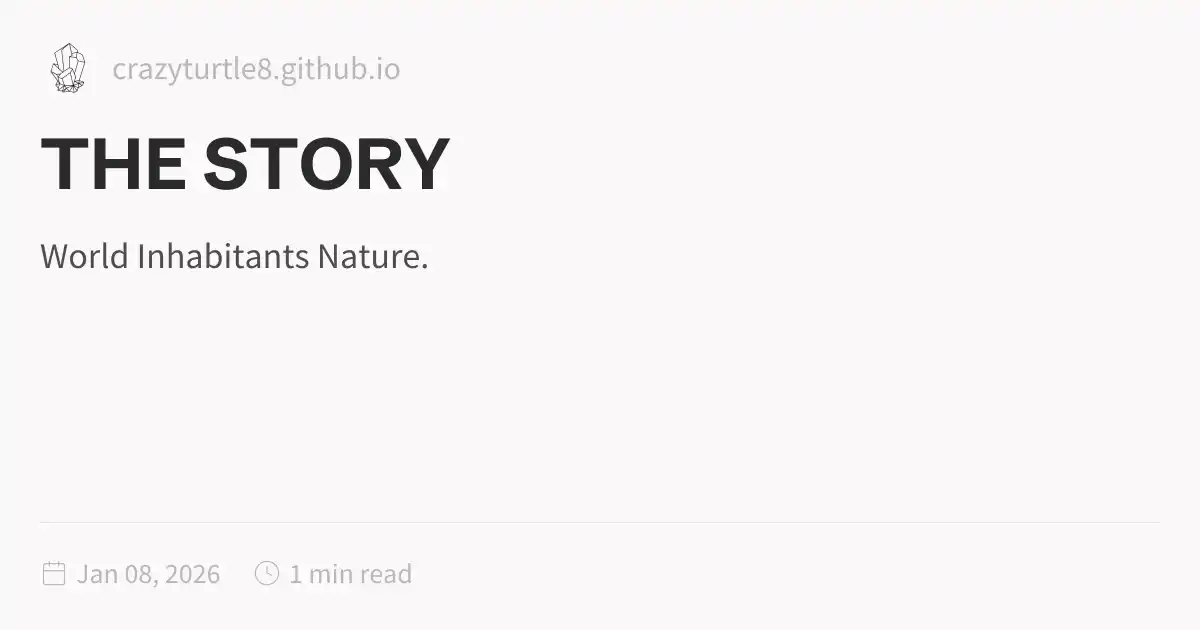
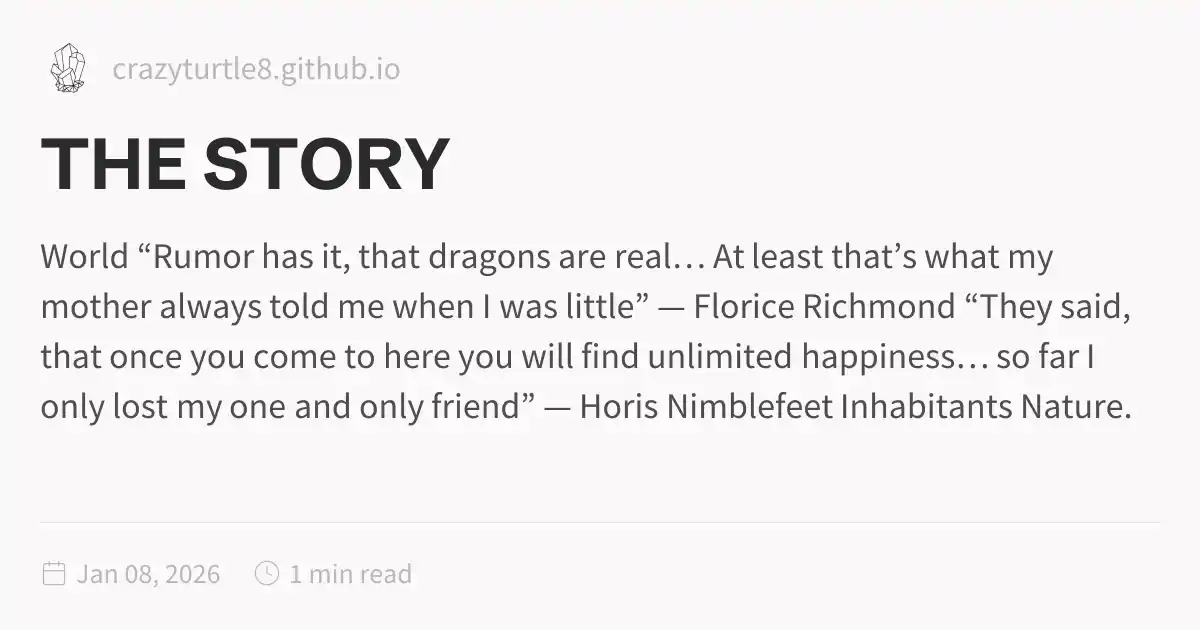
Update 2026-01-08

diff --git a/DnD/CAMPAIN/index.html b/DnD/CAMPAIN/index.html
@@ -115,6 +115,6 @@ pre:hover > .expand-button {
   padding: 0 12px;
   font-size: 14px;
 }
[2 lines of base64/hex data omitted]
 </script><script type="module" data-persist="true">function E(a,e){if(!a)return;function t(o){o.target===this&&(o.preventDefault(),o.stopPropagation(),e())}function n(o){o.key.startsWith("Esc")&&(o.preventDefault(),e())}a?.addEventListener("click",t),window.addCleanup(()=>a?.removeEventListener("click",t)),document.addEventListener("keydown",n),window.addCleanup(()=>document.removeEventListener("keydown",n))}function f(a){for(;a.firstChild;)a.removeChild(a.firstChild)}var m=class{constructor(e,t){this.container=e;this.content=t;this.setupEventListeners(),this.setupNavigationControls(),this.resetTransform()}isDragging=!1;startPan={x:0,y:0};currentPan={x:0,y:0};scale=1;MIN_SCALE=.5;MAX_SCALE=3;cleanups=[];setupEventListeners(){let e=this.onMouseDown.bind(this),t=this.onMouseMove.bind(this),n=this.onMouseUp.bind(this),o=this.onTouchStart.bind(this),r=this.onTouchMove.bind(this),i=this.onTouchEnd.bind(this),s=this.resetTransform.bind(this);this.container.addEventListener("mousedown",e),document.addEventListener("mousemove",t),document.addEventListener("mouseup",n),this.container.addEventListener("touchstart",o,{passive:!1}),document.addEventListener("touchmove",r,{passive:!1}),document.addEventListener("touchend",i),window.addEventListener("resize",s),this.cleanups.push(()=>this.container.removeEventListener("mousedown",e),()=>document.removeEventListener("mousemove",t),()=>document.removeEventListener("mouseup",n),()=>this.container.removeEventListener("touchstart",o),()=>document.removeEventListener("touchmove",r),()=>document.removeEventListener("touchend",i),()=>window.removeEventListener("resize",s))}cleanup(){for(let e of this.cleanups)e()}setupNavigationControls(){let e=document.createElement("div");e.className="mermaid-controls";let t=this.createButton("+",()=>this.zoom(.1)),n=this.createButton("-",()=>this.zoom(-.1)),o=this.createButton("Reset",()=>this.resetTransform());e.appendChild(n),e.appendChild(o),e.appendChild(t),this.container.appendChild(e)}createButton(e,t){let n=document.createElement("button");return n.textContent=e,n.className="mermaid-control-button",n.addEventListener("click",t),window.addCleanup(()=>n.removeEventListener("click",t)),n}onMouseDown(e){e.button===0&&(this.isDragging=!0,this.startPan={x:e.clientX-this.currentPan.x,y:e.clientY-this.currentPan.y},this.container.style.cursor="grabbing")}onMouseMove(e){this.isDragging&&(e.preventDefault(),this.currentPan={x:e.clientX-this.startPan.x,y:e.clientY-this.startPan.y},this.updateTransform())}onMouseUp(){this.isDragging=!1,this.container.style.cursor="grab"}onTouchStart(e){if(e.touches.length!==1)return;this.isDragging=!0;let t=e.touches[0];this.startPan={x:t.clientX-this.currentPan.x,y:t.clientY-this.currentPan.y}}onTouchMove(e){if(!this.isDragging||e.touches.length!==1)return;e.preventDefault();let t=e.touches[0];this.currentPan={x:t.clientX-this.startPan.x,y:t.clientY-this.startPan.y},this.updateTransform()}onTouchEnd(){this.isDragging=!1}zoom(e){let t=Math.min(Math.max(this.scale+e,this.MIN_SCALE),this.MAX_SCALE),n=this.content.getBoundingClientRect(),o=n.width/2,r=n.height/2,i=t-this.scale;this.currentPan.x-=o*i,this.currentPan.y-=r*i,this.scale=t,this.updateTransform()}updateTransform(){this.content.style.transform=`translate(${this.currentPan.x}px, ${this.currentPan.y}px) scale(${this.scale})`}resetTransform(){let t=this.content.querySelector("svg").getBoundingClientRect(),n=t.width/this.scale,o=t.height/this.scale;this.scale=1,this.currentPan={x:(this.container.clientWidth-n)/2,y:(this.container.clientHeight-o)/2},this.updateTransform()}},T=["--secondary","--tertiary","--gray","--light","--lightgray","--highlight","--dark","--darkgray","--codeFont"],y;document.addEventListener("nav",async()=>{let e=document.querySelector(".center").querySelectorAll("code.mermaid");if(e.length===0)return;y||=await import("https://cdnjs.cloudflare.com/ajax/libs/mermaid/11.4.0/mermaid.esm.min.mjs");let t=y.default,n=new WeakMap;for(let r of e)n.set(r,r.innerText);async function o(){for(let s of e){s.removeAttribute("data-processed");let c=n.get(s);c&&(s.innerHTML=c)}let r=T.reduce((s,c)=>(s[c]=window.getComputedStyle(document.documentElement).getPropertyValue(c),s),{}),i=document.documentElement.getAttribute("saved-theme")==="dark";t.initialize({startOnLoad:!1,securityLevel:"loose",theme:i?"dark":"base",themeVariables:{fontFamily:r["--codeFont"],primaryColor:r["--light"],primaryTextColor:r["--darkgray"],primaryBorderColor:r["--tertiary"],lineColor:r["--darkgray"],secondaryColor:r["--secondary"],tertiaryColor:r["--tertiary"],clusterBkg:r["--light"],edgeLabelBackground:r["--highlight"]}}),await t.run({nodes:e})}await o(),document.addEventListener("themechange",o),window.addCleanup(()=>document.removeEventListener("themechange",o));for(let r=0;r<e.length;r++){let v=function(){let g=l.querySelector("#mermaid-space"),h=l.querySelector(".mermaid-content");if(!h)return;f(h);let w=i.querySelector("svg").cloneNode(!0);h.appendChild(w),l.classList.add("active"),g.style.cursor="grab",u=new m(g,h)},M=function(){l.classList.remove("active"),u?.cleanup(),u=null},i=e[r],s=i.parentElement,c=s.querySelector(".clipboard-button"),d=s.querySelector(".expand-button"),p=window.getComputedStyle(c),L=c.offsetWidth+parseFloat(p.marginLeft||"0")+parseFloat(p.marginRight||"0");d.style.right=`calc(${L}px + 0.3rem)`,s.prepend(d);let l=s.querySelector("#mermaid-container");if(!l)return;let u=null;d.addEventListener("click",v),E(l,M),window.addCleanup(()=>{u?.cleanup(),d.removeEventListener("click",v)})}});
 </script><script src="https://cdn.jsdelivr.net/npm/katex@0.16.11/dist/contrib/copy-tex.min.js" type="application/javascript" data-persist="true"></script><script src="../../postscript.js" type="module" data-persist="true"></script></html>

diff --git a/DnD/index.html b/DnD/index.html
@@ -115,6 +115,6 @@ pre:hover > .expand-button {
   padding: 0 12px;
   font-size: 14px;
 }
[2 lines of base64/hex data omitted]
 </script><script type="module" data-persist="true">function E(a,e){if(!a)return;function t(o){o.target===this&&(o.preventDefault(),o.stopPropagation(),e())}function n(o){o.key.startsWith("Esc")&&(o.preventDefault(),e())}a?.addEventListener("click",t),window.addCleanup(()=>a?.removeEventListener("click",t)),document.addEventListener("keydown",n),window.addCleanup(()=>document.removeEventListener("keydown",n))}function f(a){for(;a.firstChild;)a.removeChild(a.firstChild)}var m=class{constructor(e,t){this.container=e;this.content=t;this.setupEventListeners(),this.setupNavigationControls(),this.resetTransform()}isDragging=!1;startPan={x:0,y:0};currentPan={x:0,y:0};scale=1;MIN_SCALE=.5;MAX_SCALE=3;cleanups=[];setupEventListeners(){let e=this.onMouseDown.bind(this),t=this.onMouseMove.bind(this),n=this.onMouseUp.bind(this),o=this.onTouchStart.bind(this),r=this.onTouchMove.bind(this),i=this.onTouchEnd.bind(this),s=this.resetTransform.bind(this);this.container.addEventListener("mousedown",e),document.addEventListener("mousemove",t),document.addEventListener("mouseup",n),this.container.addEventListener("touchstart",o,{passive:!1}),document.addEventListener("touchmove",r,{passive:!1}),document.addEventListener("touchend",i),window.addEventListener("resize",s),this.cleanups.push(()=>this.container.removeEventListener("mousedown",e),()=>document.removeEventListener("mousemove",t),()=>document.removeEventListener("mouseup",n),()=>this.container.removeEventListener("touchstart",o),()=>document.removeEventListener("touchmove",r),()=>document.removeEventListener("touchend",i),()=>window.removeEventListener("resize",s))}cleanup(){for(let e of this.cleanups)e()}setupNavigationControls(){let e=document.createElement("div");e.className="mermaid-controls";let t=this.createButton("+",()=>this.zoom(.1)),n=this.createButton("-",()=>this.zoom(-.1)),o=this.createButton("Reset",()=>this.resetTransform());e.appendChild(n),e.appendChild(o),e.appendChild(t),this.container.appendChild(e)}createButton(e,t){let n=document.createElement("button");return n.textContent=e,n.className="mermaid-control-button",n.addEventListener("click",t),window.addCleanup(()=>n.removeEventListener("click",t)),n}onMouseDown(e){e.button===0&&(this.isDragging=!0,this.startPan={x:e.clientX-this.currentPan.x,y:e.clientY-this.currentPan.y},this.container.style.cursor="grabbing")}onMouseMove(e){this.isDragging&&(e.preventDefault(),this.currentPan={x:e.clientX-this.startPan.x,y:e.clientY-this.startPan.y},this.updateTransform())}onMouseUp(){this.isDragging=!1,this.container.style.cursor="grab"}onTouchStart(e){if(e.touches.length!==1)return;this.isDragging=!0;let t=e.touches[0];this.startPan={x:t.clientX-this.currentPan.x,y:t.clientY-this.currentPan.y}}onTouchMove(e){if(!this.isDragging||e.touches.length!==1)return;e.preventDefault();let t=e.touches[0];this.currentPan={x:t.clientX-this.startPan.x,y:t.clientY-this.startPan.y},this.updateTransform()}onTouchEnd(){this.isDragging=!1}zoom(e){let t=Math.min(Math.max(this.scale+e,this.MIN_SCALE),this.MAX_SCALE),n=this.content.getBoundingClientRect(),o=n.width/2,r=n.height/2,i=t-this.scale;this.currentPan.x-=o*i,this.currentPan.y-=r*i,this.scale=t,this.updateTransform()}updateTransform(){this.content.style.transform=`translate(${this.currentPan.x}px, ${this.currentPan.y}px) scale(${this.scale})`}resetTransform(){let t=this.content.querySelector("svg").getBoundingClientRect(),n=t.width/this.scale,o=t.height/this.scale;this.scale=1,this.currentPan={x:(this.container.clientWidth-n)/2,y:(this.container.clientHeight-o)/2},this.updateTransform()}},T=["--secondary","--tertiary","--gray","--light","--lightgray","--highlight","--dark","--darkgray","--codeFont"],y;document.addEventListener("nav",async()=>{let e=document.querySelector(".center").querySelectorAll("code.mermaid");if(e.length===0)return;y||=await import("https://cdnjs.cloudflare.com/ajax/libs/mermaid/11.4.0/mermaid.esm.min.mjs");let t=y.default,n=new WeakMap;for(let r of e)n.set(r,r.innerText);async function o(){for(let s of e){s.removeAttribute("data-processed");let c=n.get(s);c&&(s.innerHTML=c)}let r=T.reduce((s,c)=>(s[c]=window.getComputedStyle(document.documentElement).getPropertyValue(c),s),{}),i=document.documentElement.getAttribute("saved-theme")==="dark";t.initialize({startOnLoad:!1,securityLevel:"loose",theme:i?"dark":"base",themeVariables:{fontFamily:r["--codeFont"],primaryColor:r["--light"],primaryTextColor:r["--darkgray"],primaryBorderColor:r["--tertiary"],lineColor:r["--darkgray"],secondaryColor:r["--secondary"],tertiaryColor:r["--tertiary"],clusterBkg:r["--light"],edgeLabelBackground:r["--highlight"]}}),await t.run({nodes:e})}await o(),document.addEventListener("themechange",o),window.addCleanup(()=>document.removeEventListener("themechange",o));for(let r=0;r<e.length;r++){let v=function(){let g=l.querySelector("#mermaid-space"),h=l.querySelector(".mermaid-content");if(!h)return;f(h);let w=i.querySelector("svg").cloneNode(!0);h.appendChild(w),l.classList.add("active"),g.style.cursor="grab",u=new m(g,h)},M=function(){l.classList.remove("active"),u?.cleanup(),u=null},i=e[r],s=i.parentElement,c=s.querySelector(".clipboard-button"),d=s.querySelector(".expand-button"),p=window.getComputedStyle(c),L=c.offsetWidth+parseFloat(p.marginLeft||"0")+parseFloat(p.marginRight||"0");d.style.right=`calc(${L}px + 0.3rem)`,s.prepend(d);let l=s.querySelector("#mermaid-container");if(!l)return;let u=null;d.addEventListener("click",v),E(l,M),window.addCleanup(()=>{u?.cleanup(),d.removeEventListener("click",v)})}});
 </script><script src="https://cdn.jsdelivr.net/npm/katex@0.16.11/dist/contrib/copy-tex.min.js" type="application/javascript" data-persist="true"></script><script src="../postscript.js" type="module" data-persist="true"></script></html>

diff --git a/DnD/CAMPAIN/Lore/WORLD-MAP.html b/DnD/CAMPAIN/Lore/WORLD-MAP.html
@@ -115,7 +115,7 @@ pre:hover > .expand-button {
   padding: 0 12px;
   font-size: 14px;
 }
[2 lines of base64/hex data omitted]
 <p>once i manage to create one that’s not ass</p></article><hr/><div class="page-footer"></div></div><div class="right sidebar"><div class="graph"><h3>Graph View</h3><div class="graph-outer"><div class="graph-container" data-cfg="{&quot;drag&quot;:true,&quot;zoom&quot;:true,&quot;depth&quot;:1,&quot;scale&quot;:1.1,&quot;repelForce&quot;:0.5,&quot;centerForce&quot;:0.3,&quot;linkDistance&quot;:30,&quot;fontSize&quot;:0.6,&quot;opacityScale&quot;:1,&quot;showTags&quot;:true,&quot;removeTags&quot;:[],&quot;focusOnHover&quot;:false,&quot;enableRadial&quot;:false}"></div><button class="global-graph-icon" aria-label="Global Graph"><svg version="1.1" xmlns="http://www.w3.org/2000/svg" xmlns:xlink="http://www.w3.org/1999/xlink" x="0px" y="0px" viewBox="0 0 55 55" fill="currentColor" xml:space="preserve"><path d="M49,0c-3.309,0-6,2.691-6,6c0,1.035,0.263,2.009,0.726,2.86l-9.829,9.829C32.542,17.634,30.846,17,29,17
                 s-3.542,0.634-4.898,1.688l-7.669-7.669C16.785,10.424,17,9.74,17,9c0-2.206-1.794-4-4-4S9,6.794,9,9s1.794,4,4,4
                 c0.74,0,1.424-0.215,2.019-0.567l7.669,7.669C21.634,21.458,21,23.154,21,25s0.634,3.542,1.688,4.897L10.024,42.562

diff --git a/index.html b/index.html
@@ -115,7 +115,7 @@ pre:hover > .expand-button {
   padding: 0 12px;
   font-size: 14px;
 }
[2 lines of base64/hex data omitted]
 <p>This is my digital garden for D&amp;D campaign and Lore
 If you’re here without getting the link from me, please leave you’re not supposed to read this yet :)</p>
 <h2 id="contents">Contents<a role="anchor" aria-hidden="true" tabindex="-1" data-no-popover="true" href="#contents" class="internal"><svg width="18" height="18" viewBox="0 0 24 24" fill="none" stroke="currentColor" stroke-width="2" stroke-linecap="round" stroke-linejoin="round"><path d="M10 13a5 5 0 0 0 7.54.54l3-3a5 5 0 0 0-7.07-7.07l-1.72 1.71"></path><path d="M14 11a5 5 0 0 0-7.54-.54l-3 3a5 5 0 0 0 7.07 7.07l1.71-1.71"></path></svg></a></h2>

diff --git a/DnD/CAMPAIN/Lore/THE-STORY.html b/DnD/CAMPAIN/Lore/THE-STORY.html
@@ -1,5 +1,5 @@
 <!DOCTYPE html>
-<html lang="en" dir="ltr"><head><title>THE STORY</title><meta charset="utf-8"/><link rel="preconnect" href="https://fonts.googleapis.com"/><link rel="preconnect" href="https://fonts.gstatic.com"/><link rel="stylesheet" href="https://fonts.googleapis.com/css2?family=Schibsted Grotesk:wght@400;700&amp;family=Source Sans Pro:ital,wght@0,400;0,600;1,400;1,600&amp;family=IBM Plex Mono:wght@400;600&amp;display=swap"/><link rel="preconnect" href="https://cdnjs.cloudflare.com" crossorigin="anonymous"/><meta name="viewport" content="width=device-width, initial-scale=1.0"/><meta name="og:site_name" content="Quartz 4"/><meta property="og:title" content="THE STORY"/><meta property="og:type" content="website"/><meta name="twitter:card" content="summary_large_image"/><meta name="twitter:title" content="THE STORY"/><meta name="twitter:description" content="World Inhabitants Nature."/><meta property="og:description" content="World Inhabitants Nature."/><meta property="og:image:alt" content="World Inhabitants Nature."/><meta property="twitter:domain" content="crazyturtle8.github.io"/><meta property="og:url" content="https://crazyturtle8.github.io/DnD/CAMPAIN/Lore/THE-STORY"/><meta property="twitter:url" content="https://crazyturtle8.github.io/DnD/CAMPAIN/Lore/THE-STORY"/><link rel="icon" href="../../../static/icon.png"/><meta name="description" content="World Inhabitants Nature."/><meta name="generator" content="Quartz"/><link href="../../../index.css" rel="stylesheet" type="text/css" data-persist="true"/><style>.expand-button {
+<html lang="en" dir="ltr"><head><title>THE STORY</title><meta charset="utf-8"/><link rel="preconnect" href="https://fonts.googleapis.com"/><link rel="preconnect" href="https://fonts.gstatic.com"/><link rel="stylesheet" href="https://fonts.googleapis.com/css2?family=Schibsted Grotesk:wght@400;700&amp;family=Source Sans Pro:ital,wght@0,400;0,600;1,400;1,600&amp;family=IBM Plex Mono:wght@400;600&amp;display=swap"/><link rel="preconnect" href="https://cdnjs.cloudflare.com" crossorigin="anonymous"/><meta name="viewport" content="width=device-width, initial-scale=1.0"/><meta name="og:site_name" content="Quartz 4"/><meta property="og:title" content="THE STORY"/><meta property="og:type" content="website"/><meta name="twitter:card" content="summary_large_image"/><meta name="twitter:title" content="THE STORY"/><meta name="twitter:description" content="World “Rumor has it, that dragons are real… At least that’s what my mother always told me when I was little” — Florice Richmond “They said, that once you come to here you will find unlimited happiness… so far I only lost my one and only friend” — Horis Nimblefeet Inhabitants Nature."/><meta property="og:description" content="World “Rumor has it, that dragons are real… At least that’s what my mother always told me when I was little” — Florice Richmond “They said, that once you come to here you will find unlimited happiness… so far I only lost my one and only friend” — Horis Nimblefeet Inhabitants Nature."/><meta property="og:image:alt" content="World “Rumor has it, that dragons are real… At least that’s what my mother always told me when I was little” — Florice Richmond “They said, that once you come to here you will find unlimited happiness… so far I only lost my one and only friend” — Horis Nimblefeet Inhabitants Nature."/><meta property="twitter:domain" content="crazyturtle8.github.io"/><meta property="og:url" content="https://crazyturtle8.github.io/DnD/CAMPAIN/Lore/THE-STORY"/><meta property="twitter:url" content="https://crazyturtle8.github.io/DnD/CAMPAIN/Lore/THE-STORY"/><link rel="icon" href="../../../static/icon.png"/><meta name="description" content="World “Rumor has it, that dragons are real… At least that’s what my mother always told me when I was little” — Florice Richmond “They said, that once you come to here you will find unlimited happiness… so far I only lost my one and only friend” — Horis Nimblefeet Inhabitants Nature."/><meta name="generator" content="Quartz"/><link href="../../../index.css" rel="stylesheet" type="text/css" data-persist="true"/><style>.expand-button {
   position: absolute;
   display: flex;
   float: right;
@@ -116,6 +116,8 @@ pre:hover > .expand-button {
   font-size: 14px;
 }
[1 lines of base64/hex data omitted]
+<p>“Rumor has it, that dragons are real… At least that’s what my mother always told me when I was little” — Florice Richmond</p>
+<p>“They said, that once you come to here you will find unlimited happiness… so far I only lost my one and only friend” — Horis Nimblefeet</p>
 <h2 id="inhabitants">Inhabitants<a role="anchor" aria-hidden="true" tabindex="-1" data-no-popover="true" href="#inhabitants" class="internal"><svg width="18" height="18" viewBox="0 0 24 24" fill="none" stroke="currentColor" stroke-width="2" stroke-linecap="round" stroke-linejoin="round"><path d="M10 13a5 5 0 0 0 7.54.54l3-3a5 5 0 0 0-7.07-7.07l-1.72 1.71"></path><path d="M14 11a5 5 0 0 0-7.54-.54l-3 3a5 5 0 0 0 7.07 7.07l1.71-1.71"></path></svg></a></h2>
 <h2 id="nature">Nature<a role="anchor" aria-hidden="true" tabindex="-1" data-no-popover="true" href="#nature" class="internal"><svg width="18" height="18" viewBox="0 0 24 24" fill="none" stroke="currentColor" stroke-width="2" stroke-linecap="round" stroke-linejoin="round"><path d="M10 13a5 5 0 0 0 7.54.54l3-3a5 5 0 0 0-7.07-7.07l-1.72 1.71"></path><path d="M14 11a5 5 0 0 0-7.54-.54l-3 3a5 5 0 0 0 7.07 7.07l1.71-1.71"></path></svg></a></h2></article><hr/><div class="page-footer"></div></div><div class="right sidebar"><div class="graph"><h3>Graph View</h3><div class="graph-outer"><div class="graph-container" data-cfg="{&quot;drag&quot;:true,&quot;zoom&quot;:true,&quot;depth&quot;:1,&quot;scale&quot;:1.1,&quot;repelForce&quot;:0.5,&quot;centerForce&quot;:0.3,&quot;linkDistance&quot;:30,&quot;fontSize&quot;:0.6,&quot;opacityScale&quot;:1,&quot;showTags&quot;:true,&quot;removeTags&quot;:[],&quot;focusOnHover&quot;:false,&quot;enableRadial&quot;:false}"></div><button class="global-graph-icon" aria-label="Global Graph"><svg version="1.1" xmlns="http://www.w3.org/2000/svg" xmlns:xlink="http://www.w3.org/1999/xlink" x="0px" y="0px" viewBox="0 0 55 55" fill="currentColor" xml:space="preserve"><path d="M49,0c-3.309,0-6,2.691-6,6c0,1.035,0.263,2.009,0.726,2.86l-9.829,9.829C32.542,17.634,30.846,17,29,17
                 s-3.542,0.634-4.898,1.688l-7.669-7.669C16.785,10.424,17,9.74,17,9c0-2.206-1.794-4-4-4S9,6.794,9,9s1.794,4,4,4
